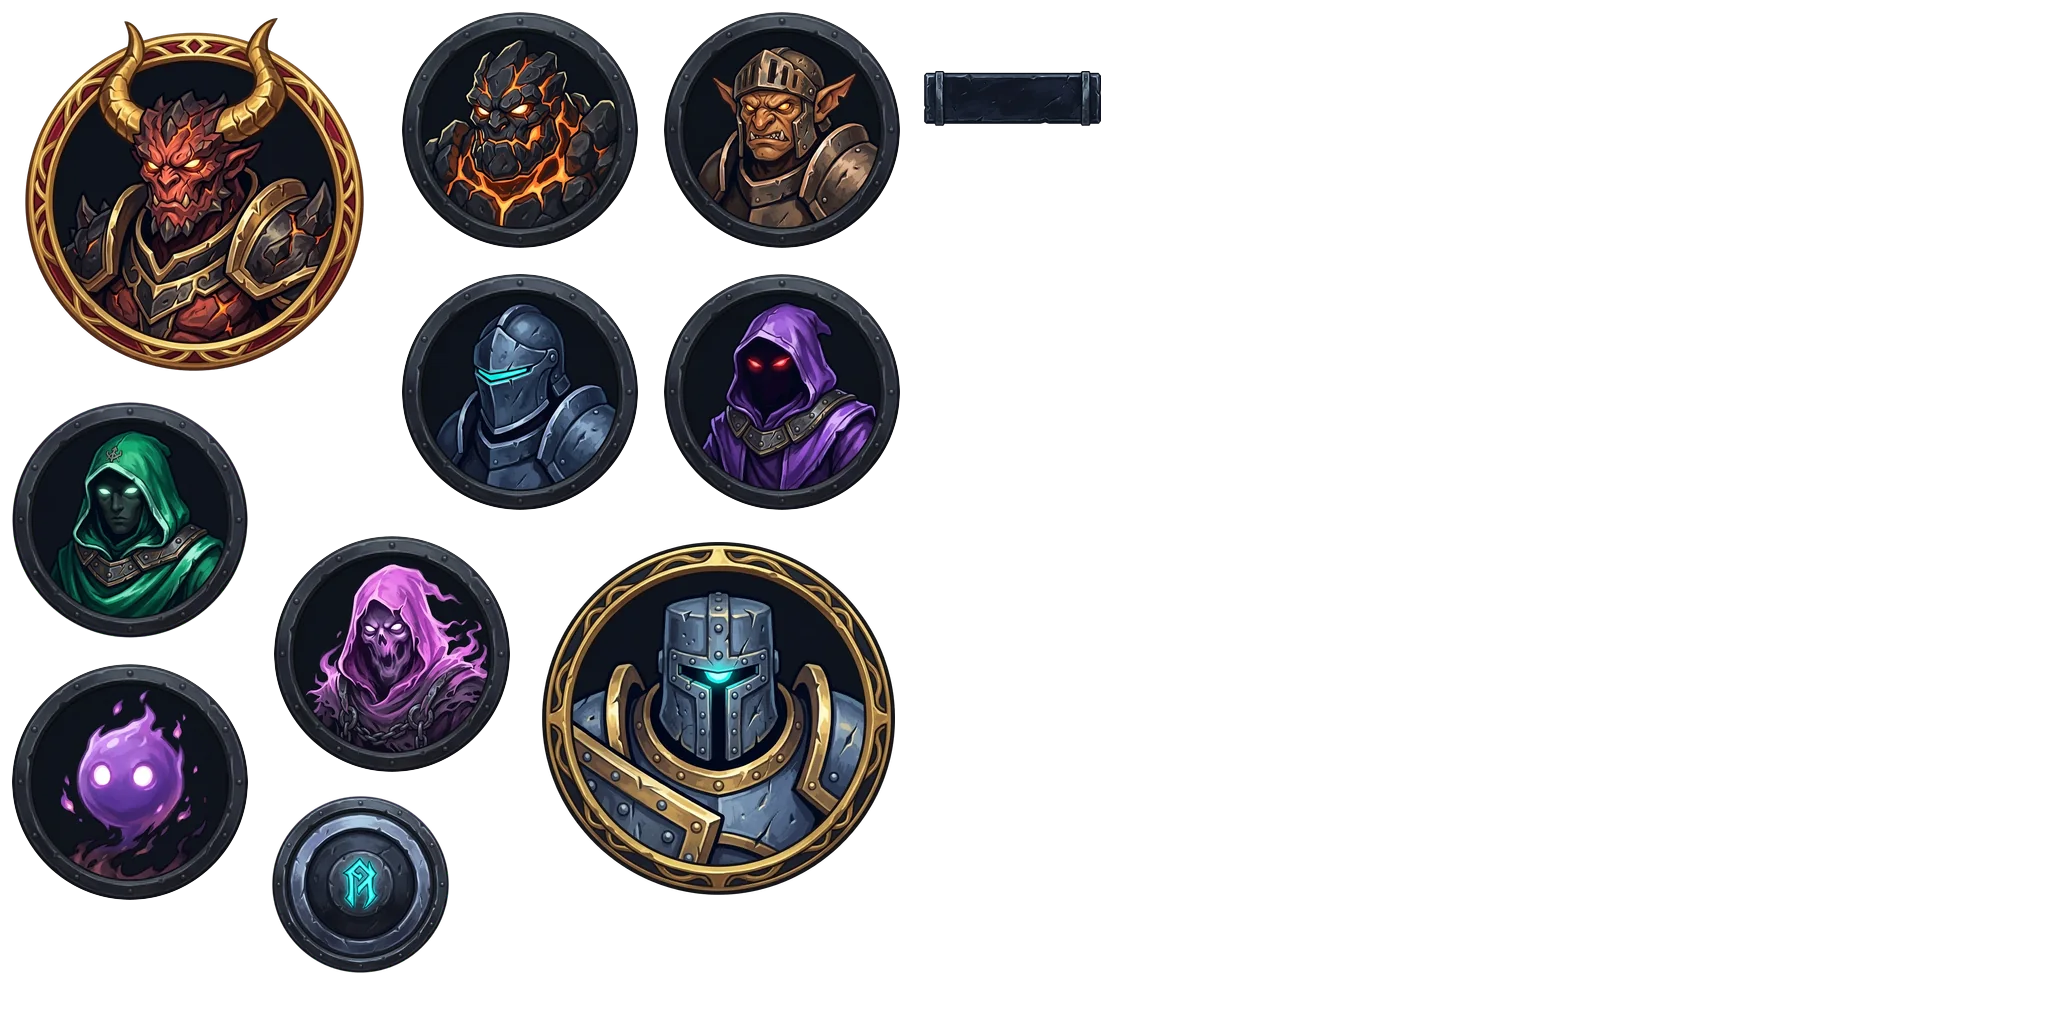
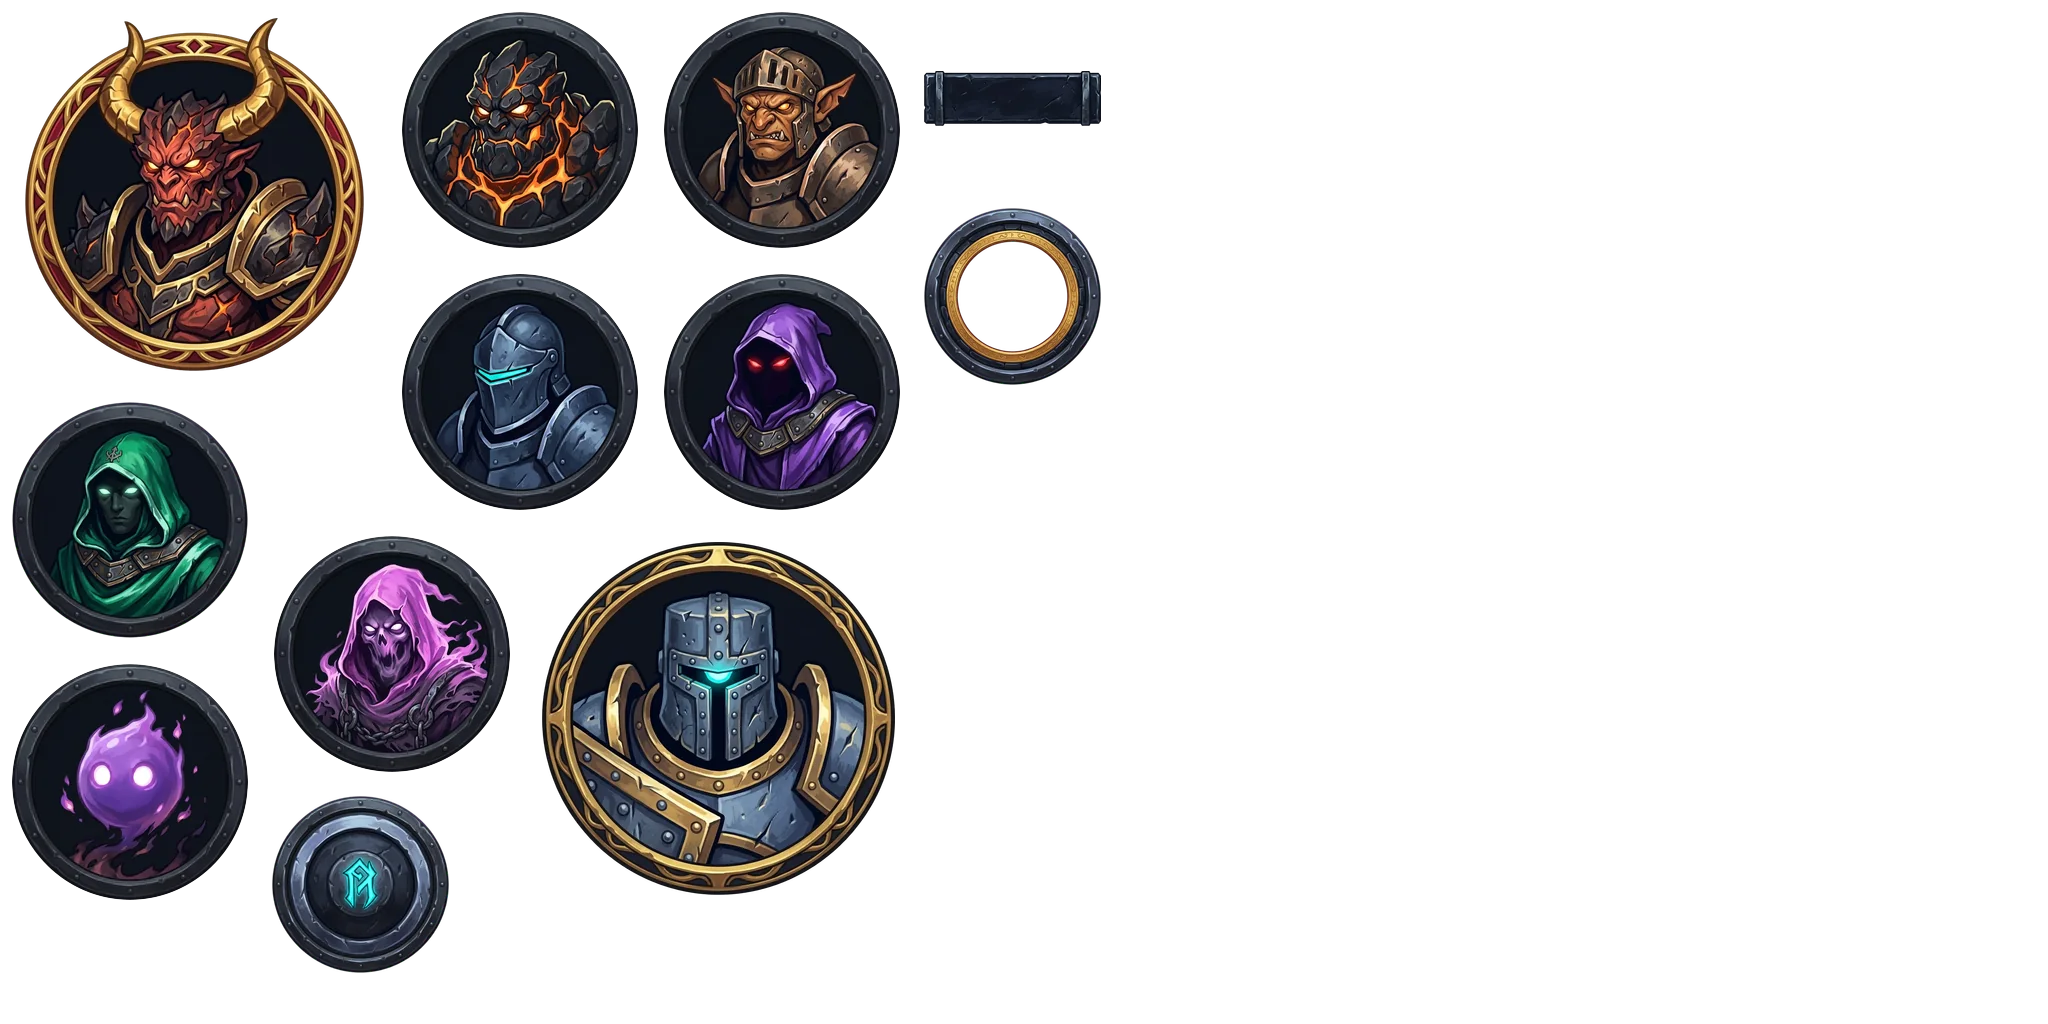
T-026 rodada 6: anel multiplicador no atlas (BRF-028)
Claude-Session: https://claude.ai/code/session_01EN3RX7GrhZzLgyZNfCYpmL

Changed region(s): [[0.4375, 0.1875, 0.5625, 0.375]]

diff --git a/art-source/preview.html b/art-source/preview.html
@@ -11,23 +11,24 @@ body.hit .hb::after{content:"";position:absolute;inset:4%;border:1px dashed #00e
 </style></head><body>
 <h1>RuneSling — assets</h1>
 <label><input type="checkbox" onchange="document.body.classList.toggle('hit',this.checked)"> mostrar círculo 92% (hitbox) e centro</label>
-<p>Faltando (19): obstacle_ring_multiplier, icon_bumper_shock, icon_static_crit, icon_storm_orb, icon_fire_splash, icon_ignite, icon_supernova, icon_molten_core, icon_ghost_ball, icon_ricochet_crit, icon_wall_clone, icon_arcane_sight, icon_extra_orb, icon_power_surge, icon_bastion_heal, icon_gold_greed, floor_crypt, wall_trim_crypt, app_icon</p>
+<p>Faltando (18): icon_bumper_shock, icon_static_crit, icon_storm_orb, icon_fire_splash, icon_ignite, icon_supernova, icon_molten_core, icon_ghost_ball, icon_ricochet_crit, icon_wall_clone, icon_arcane_sight, icon_extra_orb, icon_power_surge, icon_bastion_heal, icon_gold_greed, floor_crypt, wall_trim_crypt, app_icon</p>
 <main>
-<figure data-key="boss_obsidian"><div class="spr hb" style="width:384px;height:384px;background:url('../public/assets/atlases/enemies.webp?v=b930429b') -2px -2px"></div><figcaption>boss_obsidian <small>enemies 384×384</small></figcaption></figure>
-<figure data-key="enemy_bomb"><div class="spr hb" style="width:256px;height:256px;background:url('../public/assets/atlases/enemies.webp?v=b930429b') -392px -2px"></div><figcaption>enemy_bomb <small>enemies 256×256</small></figcaption></figure>
-<figure data-key="enemy_goblin"><div class="spr hb" style="width:256px;height:256px;background:url('../public/assets/atlases/enemies.webp?v=b930429b') -654px -2px"></div><figcaption>enemy_goblin <small>enemies 256×256</small></figcaption></figure>
-<figure data-key="enemy_healer"><div class="spr hb" style="width:256px;height:256px;background:url('../public/assets/atlases/enemies.webp?v=b930429b') -2px -392px"></div><figcaption>enemy_healer <small>enemies 256×256</small></figcaption></figure>
-<figure data-key="enemy_mini"><div class="spr hb" style="width:256px;height:256px;background:url('../public/assets/atlases/enemies.webp?v=b930429b') -2px -654px"></div><figcaption>enemy_mini <small>enemies 256×256</small></figcaption></figure>
-<figure data-key="enemy_shield"><div class="spr hb" style="width:256px;height:256px;background:url('../public/assets/atlases/enemies.webp?v=b930429b') -392px -264px"></div><figcaption>enemy_shield <small>enemies 256×256</small></figcaption></figure>
-<figure data-key="enemy_shooter"><div class="spr hb" style="width:256px;height:256px;background:url('../public/assets/atlases/enemies.webp?v=b930429b') -654px -264px"></div><figcaption>enemy_shooter <small>enemies 256×256</small></figcaption></figure>
-<figure data-key="enemy_splitter"><div class="spr hb" style="width:256px;height:256px;background:url('../public/assets/atlases/enemies.webp?v=b930429b') -264px -526px"></div><figcaption>enemy_splitter <small>enemies 256×256</small></figcaption></figure>
-<figure data-key="miniboss_iron"><div class="spr hb" style="width:384px;height:384px;background:url('../public/assets/atlases/enemies.webp?v=b930429b') -526px -526px"></div><figcaption>miniboss_iron <small>enemies 384×384</small></figcaption></figure>
-<figure data-key="obstacle_bumper_rune"><div class="spr hb" style="width:192px;height:192px;background:url('../public/assets/atlases/enemies.webp?v=b930429b') -264px -788px"></div><figcaption>obstacle_bumper_rune <small>enemies 192×192</small></figcaption></figure>
-<figure data-key="obstacle_pillar_obsidian"><div class="spr hb" style="width:192px;height:192px;background:url('../public/assets/atlases/enemies.webp?v=b930429b') -916px -2px"></div><figcaption>obstacle_pillar_obsidian <small>enemies 192×192</small></figcaption></figure>
+<figure data-key="boss_obsidian"><div class="spr hb" style="width:384px;height:384px;background:url('../public/assets/atlases/enemies.webp?v=f1924fb8') -2px -2px"></div><figcaption>boss_obsidian <small>enemies 384×384</small></figcaption></figure>
+<figure data-key="enemy_bomb"><div class="spr hb" style="width:256px;height:256px;background:url('../public/assets/atlases/enemies.webp?v=f1924fb8') -392px -2px"></div><figcaption>enemy_bomb <small>enemies 256×256</small></figcaption></figure>
+<figure data-key="enemy_goblin"><div class="spr hb" style="width:256px;height:256px;background:url('../public/assets/atlases/enemies.webp?v=f1924fb8') -654px -2px"></div><figcaption>enemy_goblin <small>enemies 256×256</small></figcaption></figure>
+<figure data-key="enemy_healer"><div class="spr hb" style="width:256px;height:256px;background:url('../public/assets/atlases/enemies.webp?v=f1924fb8') -2px -392px"></div><figcaption>enemy_healer <small>enemies 256×256</small></figcaption></figure>
+<figure data-key="enemy_mini"><div class="spr hb" style="width:256px;height:256px;background:url('../public/assets/atlases/enemies.webp?v=f1924fb8') -2px -654px"></div><figcaption>enemy_mini <small>enemies 256×256</small></figcaption></figure>
+<figure data-key="enemy_shield"><div class="spr hb" style="width:256px;height:256px;background:url('../public/assets/atlases/enemies.webp?v=f1924fb8') -392px -264px"></div><figcaption>enemy_shield <small>enemies 256×256</small></figcaption></figure>
+<figure data-key="enemy_shooter"><div class="spr hb" style="width:256px;height:256px;background:url('../public/assets/atlases/enemies.webp?v=f1924fb8') -654px -264px"></div><figcaption>enemy_shooter <small>enemies 256×256</small></figcaption></figure>
+<figure data-key="enemy_splitter"><div class="spr hb" style="width:256px;height:256px;background:url('../public/assets/atlases/enemies.webp?v=f1924fb8') -264px -526px"></div><figcaption>enemy_splitter <small>enemies 256×256</small></figcaption></figure>
+<figure data-key="miniboss_iron"><div class="spr hb" style="width:384px;height:384px;background:url('../public/assets/atlases/enemies.webp?v=f1924fb8') -526px -526px"></div><figcaption>miniboss_iron <small>enemies 384×384</small></figcaption></figure>
+<figure data-key="obstacle_bumper_rune"><div class="spr hb" style="width:192px;height:192px;background:url('../public/assets/atlases/enemies.webp?v=f1924fb8') -264px -788px"></div><figcaption>obstacle_bumper_rune <small>enemies 192×192</small></figcaption></figure>
+<figure data-key="obstacle_pillar_obsidian"><div class="spr hb" style="width:192px;height:192px;background:url('../public/assets/atlases/enemies.webp?v=f1924fb8') -916px -2px"></div><figcaption>obstacle_pillar_obsidian <small>enemies 192×192</small></figcaption></figure>
+<figure data-key="obstacle_ring_multiplier"><div class="spr hb" style="width:192px;height:192px;background:url('../public/assets/atlases/enemies.webp?v=f1924fb8') -916px -200px"></div><figcaption>obstacle_ring_multiplier <small>enemies 192×192</small></figcaption></figure>
 <figure data-key="icon_chain_lightning"><div class="spr hb" style="width:128px;height:128px;background:url('../public/assets/atlases/icons.webp?v=81df7d0a') -2px -2px"></div><figcaption>icon_chain_lightning <small>icons 128×128</small></figcaption></figure>
 <figure data-key="icon_chain_lightning"><img src="../public/assets/icons/icon_chain_lightning.webp?v=f87711a0" alt="icon_chain_lightning"><figcaption>icon_chain_lightning <small>icons/icon_chain_lightning.webp</small></figcaption></figure>
 </main>
 <h2>Atlases</h2>
-<main><figure><img class="sheet" src="../public/assets/atlases/enemies.webp?v=b930429b" alt="atlas enemies"><figcaption>atlas enemies 2048×1024</figcaption></figure>
+<main><figure><img class="sheet" src="../public/assets/atlases/enemies.webp?v=f1924fb8" alt="atlas enemies"><figcaption>atlas enemies 2048×1024</figcaption></figure>
 <figure><img class="sheet" src="../public/assets/atlases/icons.webp?v=81df7d0a" alt="atlas icons"><figcaption>atlas icons 256×256</figcaption></figure></main>
 </body></html>

diff --git a/docs/arte-prompts.md b/docs/arte-prompts.md
@@ -189,7 +189,7 @@ Generate one square 1:1 image. horizontal rectangular obsidian stone beam seen f
 - Arquivo a devolver: `art-source/raw/obstacles/obstacle_ring_multiplier.png`
 - Anexar no Gemini: `art-source/anchors/medallion_anchor.png`
 - Fundo: magenta · tamanho final 192 px
-- Situação: pendente
+- Situação: **entregue**
 
 ```text
 Generate one square 1:1 image. circular golden portal ring seen from above, thin ornate gold ring (#FECA57 to #B87B14) with small engraved runes, empty hollow center, perfectly round silhouette. top-down view arena prop, dark fantasy 2D game asset, stylized hand-painted illustration, forged dark iron and obsidian stone, clean bold silhouette, dramatic top-down lighting, no outer glow, no light bleeding outside the shape, no cast shadow, centered, no text, no letters, no numbers, no UI. Background: one solid flat pure magenta color (#FF00FF) filling the whole canvas, no gradient, no shadow, no floor, no vignette, no texture. Do not use magenta anywhere on the subject. Use the attached image only as a style reference: match its rendering, brush texture, rim construction, lighting direction, contrast and level of detail exactly, but draw the new subject described above. Do not copy its subject.
